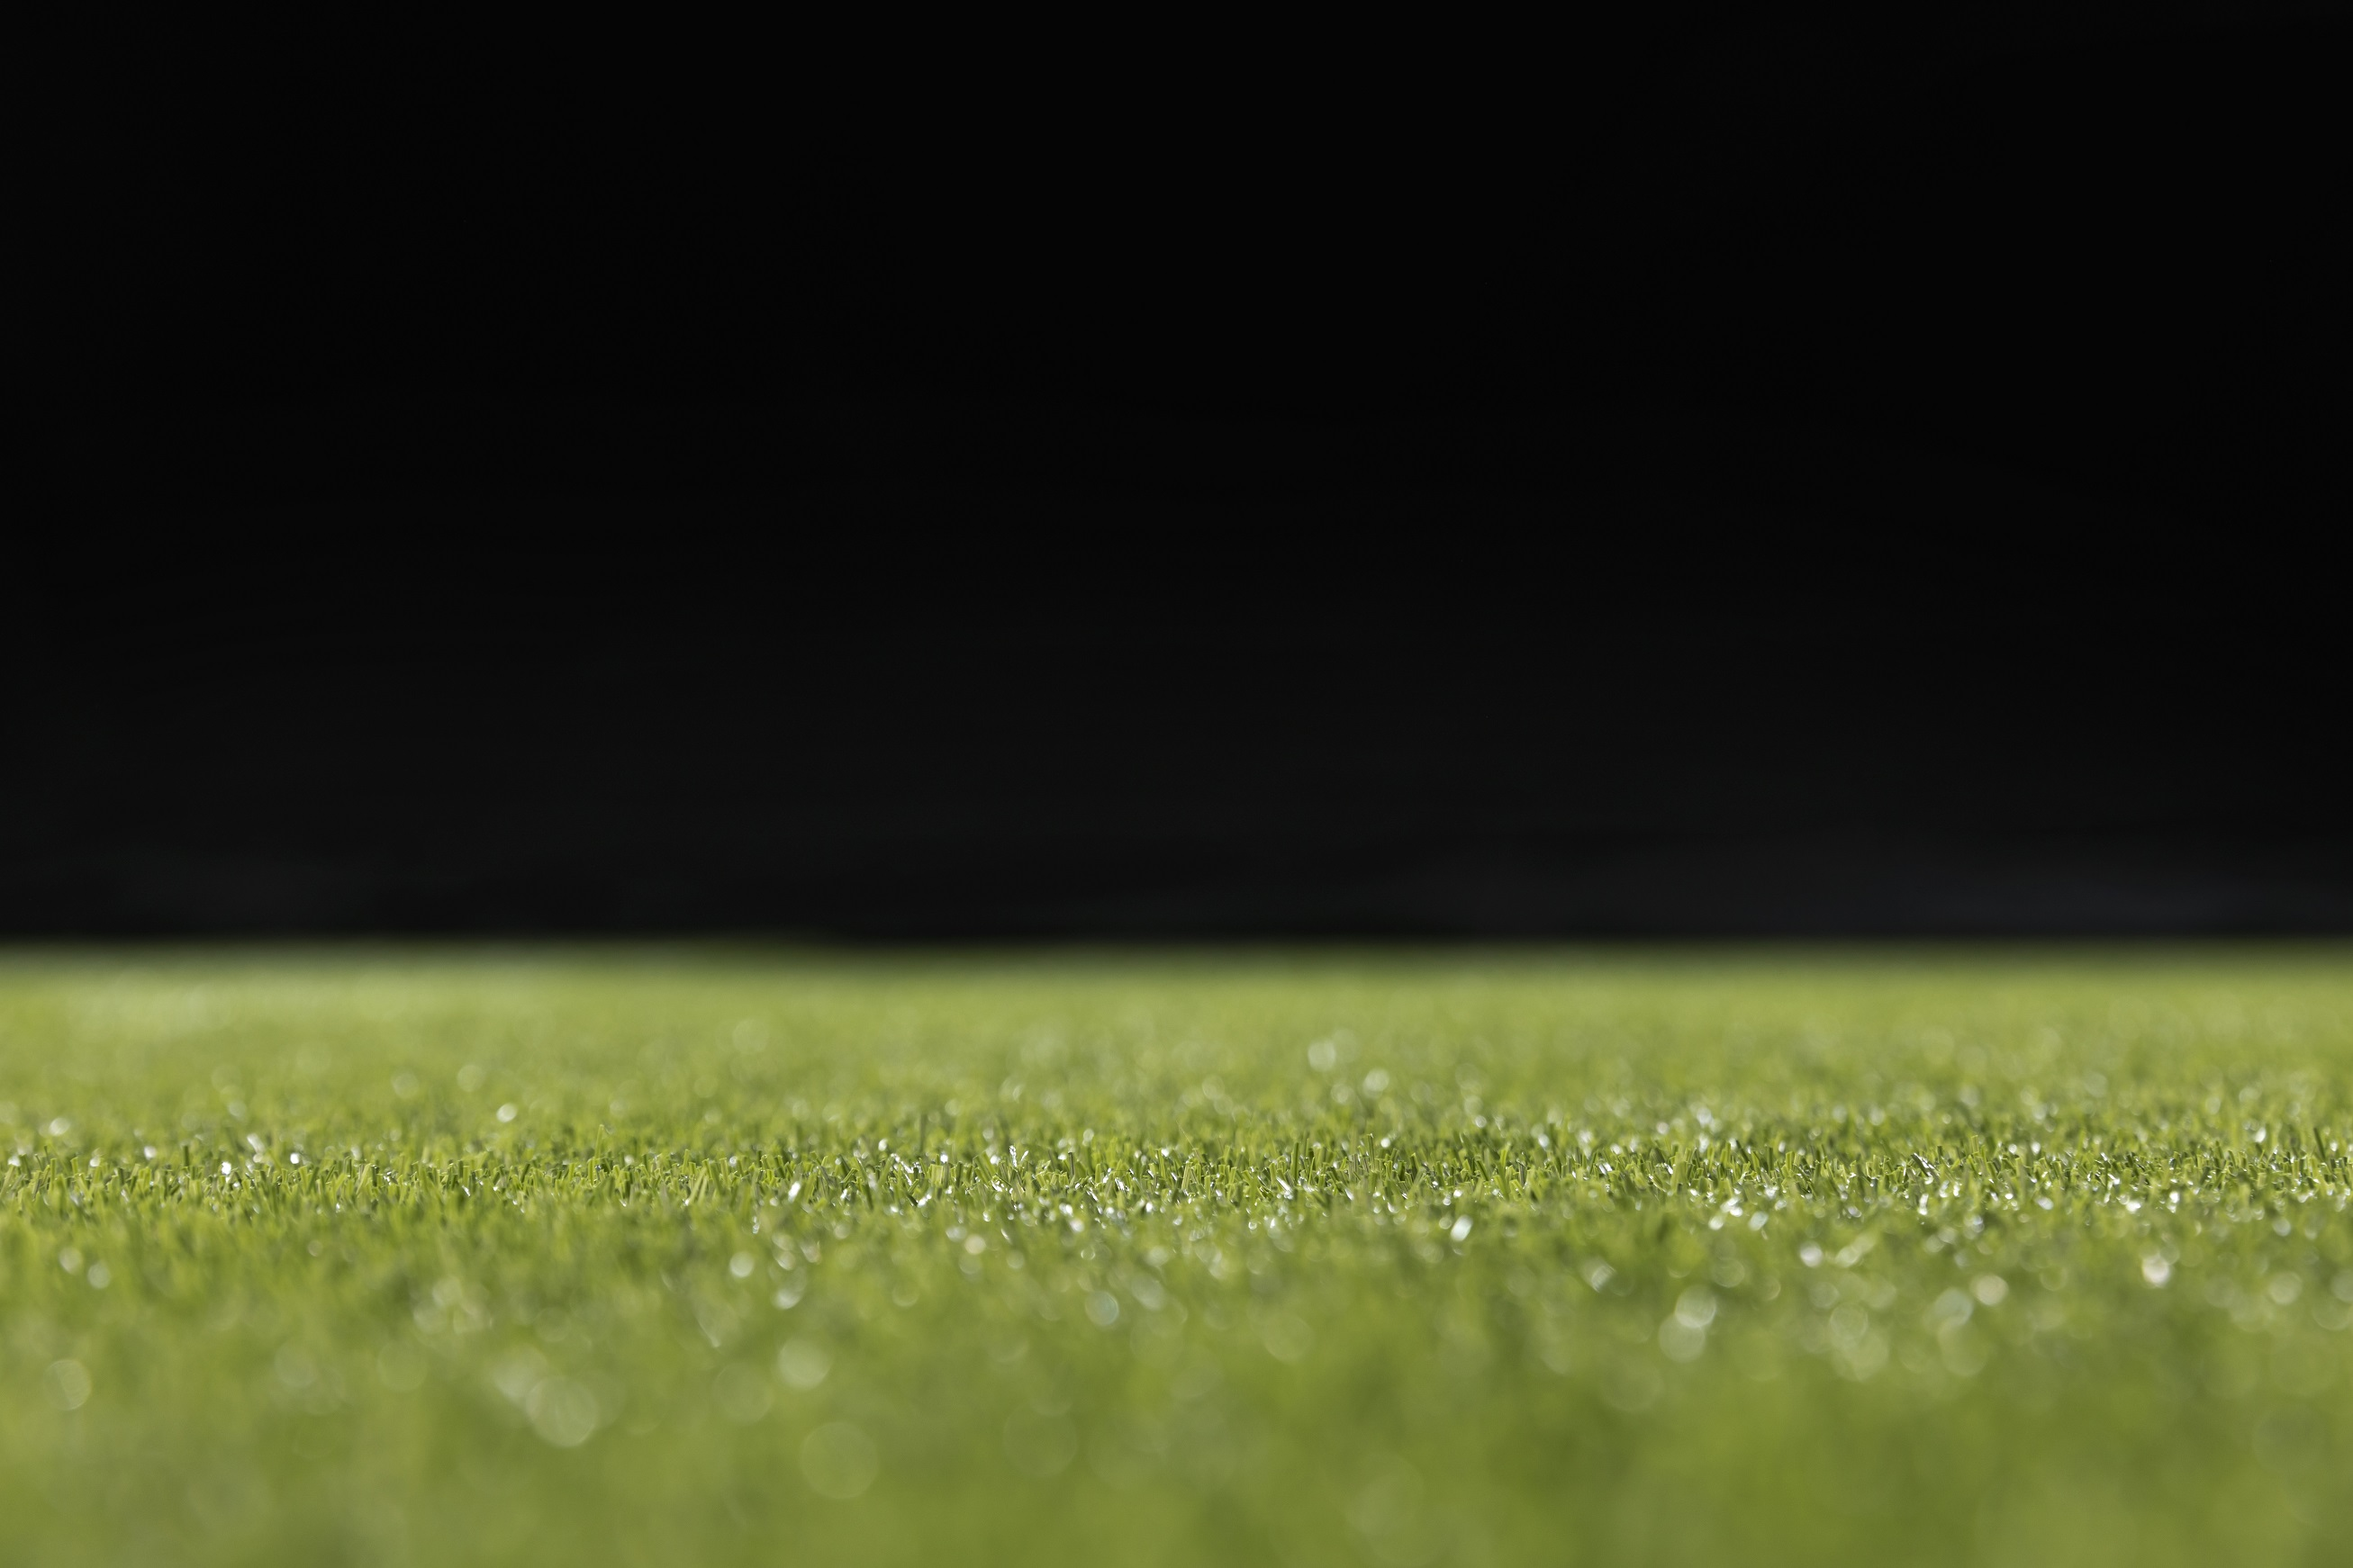
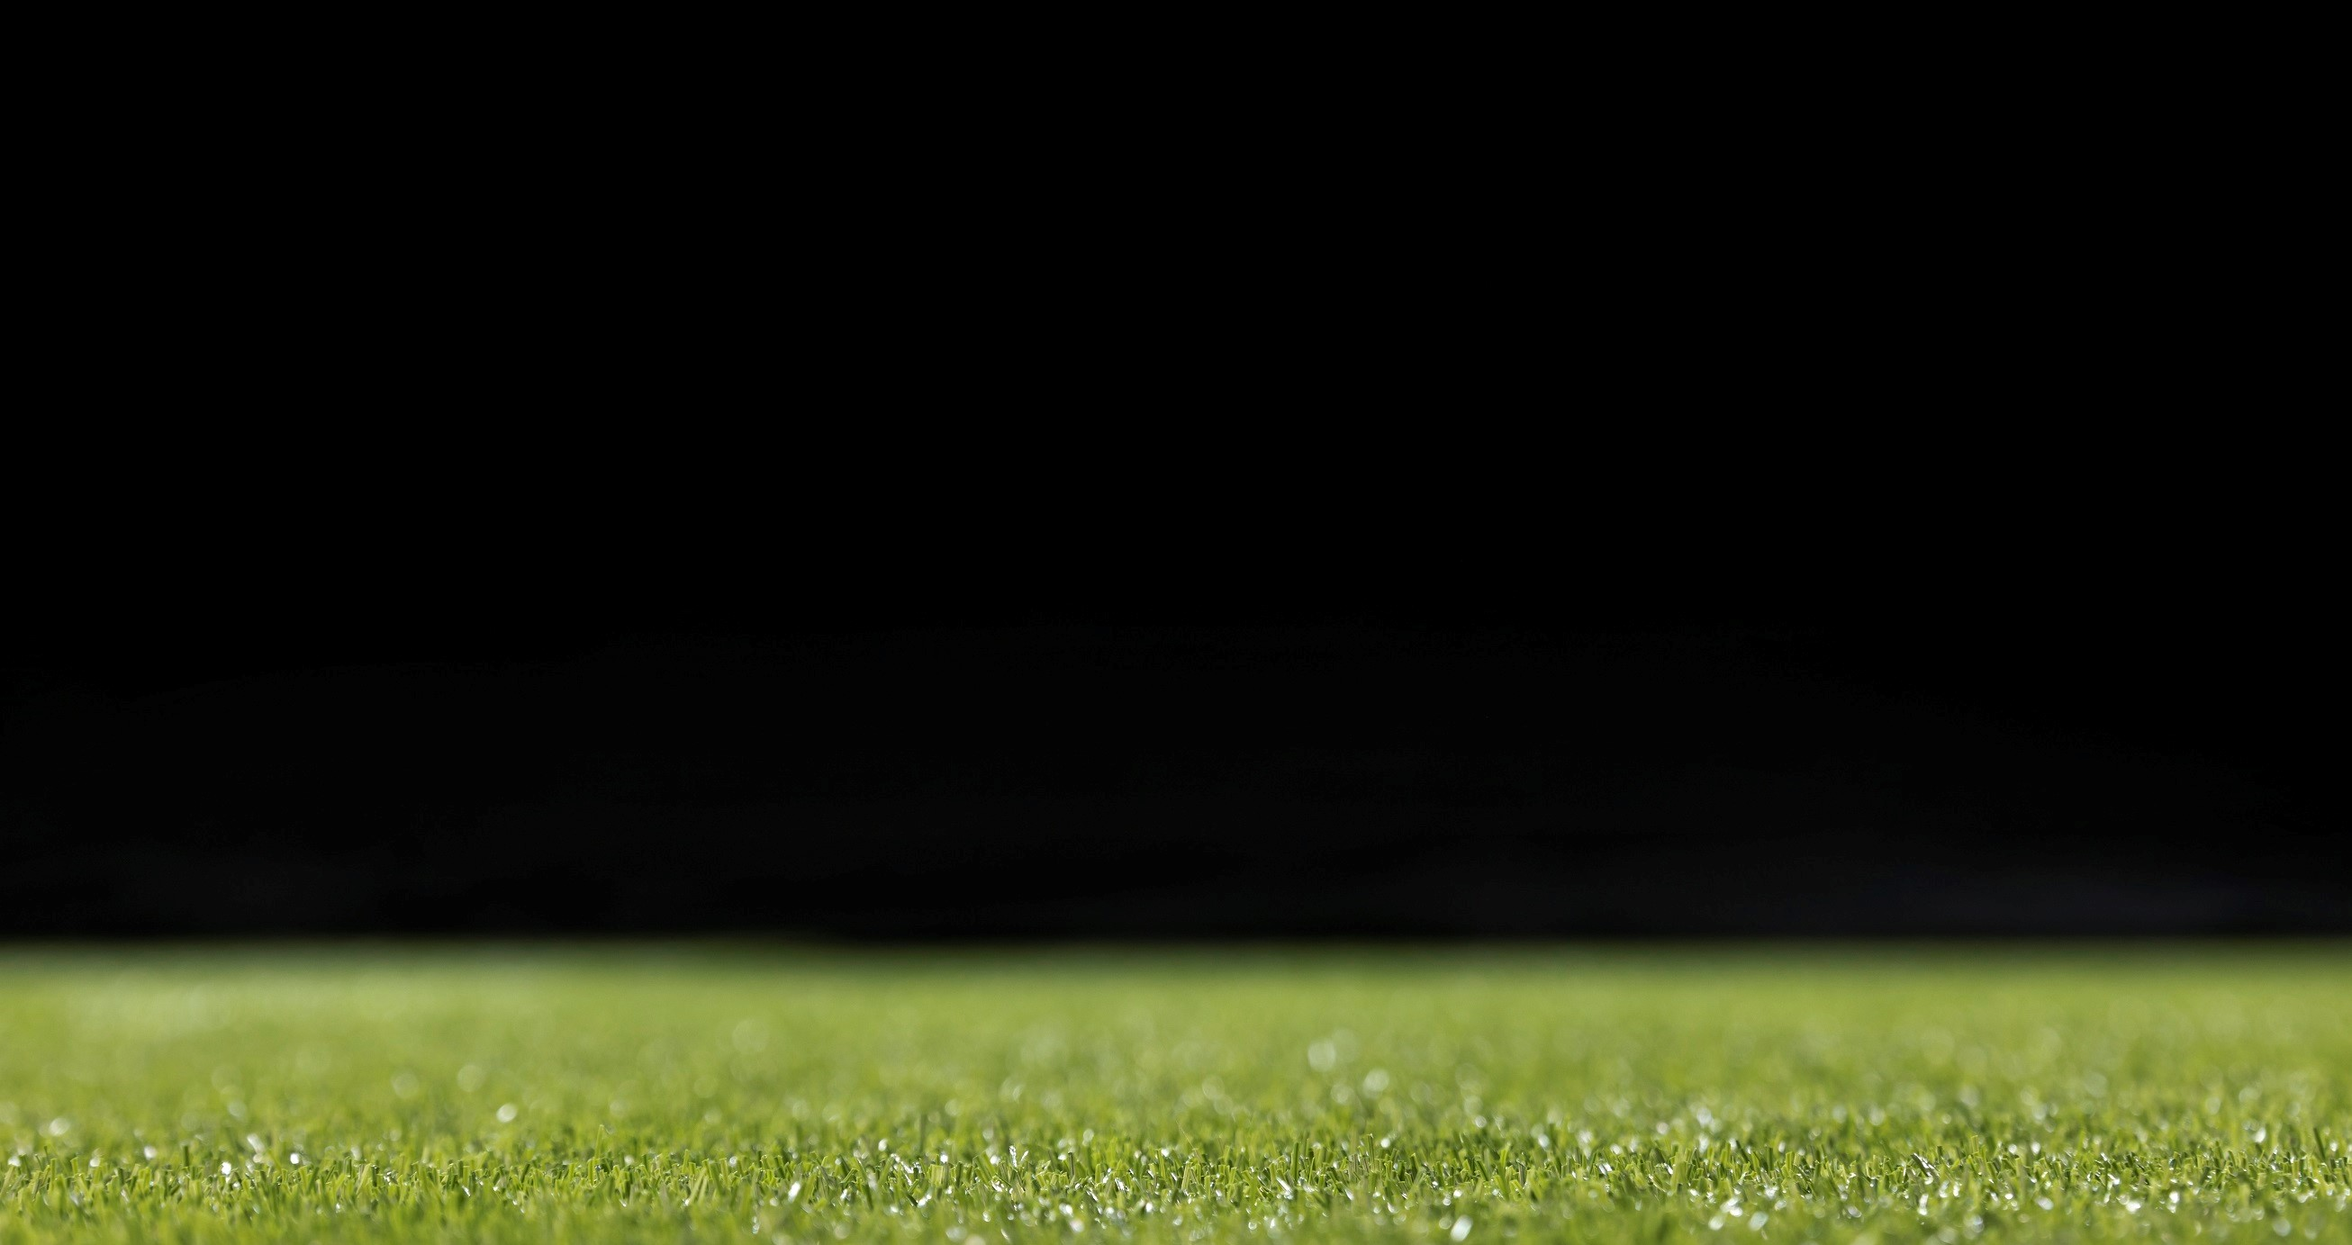
Fixed Container Height to 100VH
Fixed Container Height to 100VH

diff --git a/css/style.css b/css/style.css
@@ -39,7 +39,7 @@ Content
 ---------------------------------------------------------*/
 #container {
     background: url('../img/bg.jpg') no-repeat center center/cover;
-    height: 55rem;
+    height: 100vh;
 }
 
 #title {
